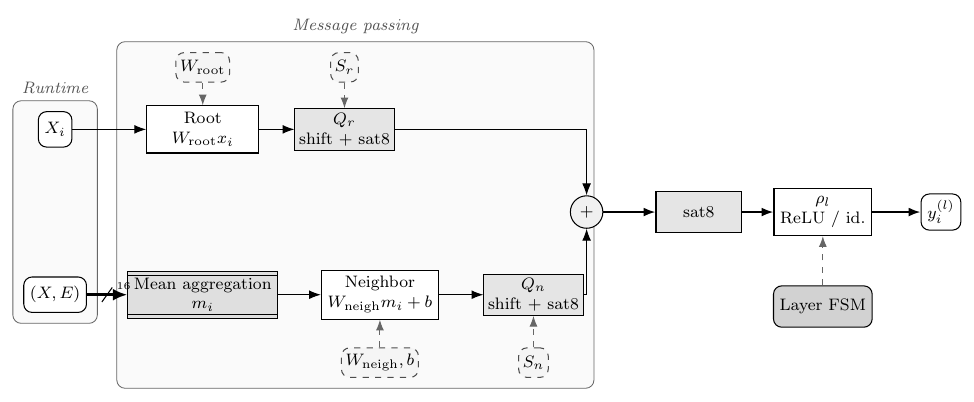
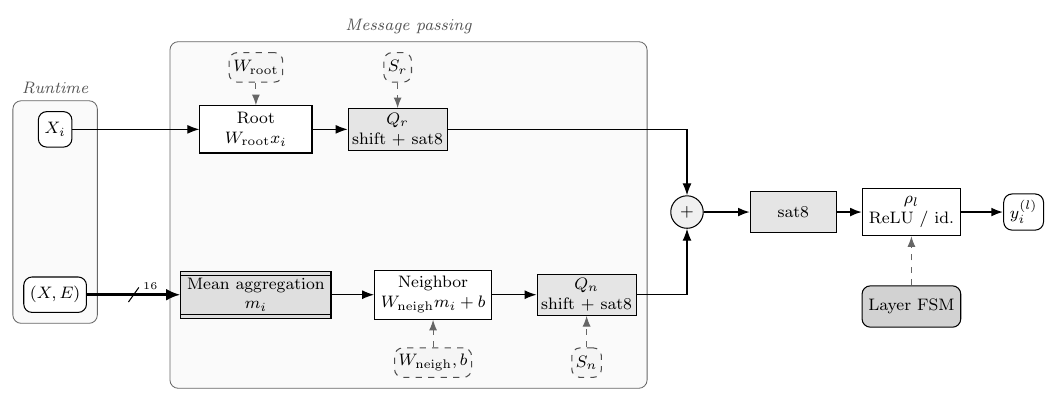
updated skill and imgs

diff --git a/examples/versal_soc.tex b/examples/versal_soc.tex
@@ -1,24 +1,40 @@
 % Versal-style SoC: host, PS, NoC, PL kernels and an AIE array.
+% Routing rules used here: wires between regions run in an empty channel
+% (x = 6.7) and under the AIE frame on their own levels (y = -1.7, -2.3);
+% every label sits on a segment that lies entirely in free space.
 \documentclass[tikz,border=6pt]{standalone}
 \usepackage[okabe]{hwfig}
 \begin{document}
 \begin{tikzpicture}[hw]
-  \node[host] (host) at (-3.2,0.3) {Host\\(x86)};
+  \node[host] (host) at (-3.4,0.3) {Host\\(x86)};
   \node[cpu] (ps) at (0,2.2) {PS\\Cortex-A72};
-  \node[extmem] (ddr) at (0,-1.9) {DDR4};
-  \node[xbar,minimum height=5.4cm] (noc) at (2,0.15) {\rotatebox{90}{NoC}};
-  \node[hlsbox] (k1) at (4.2,1.6) {mm2s\\(HLS)};
-  \node[hlsbox] (k2) at (4.2,-1.9) {s2mm\\(HLS)};
-  \node[bram] (buf) at (4.2,0.3) {BRAM buf};
-  \pic (arr) at (7.0,-0.45) {aiearray};
+  \node[extmem] (ddr) at (0,-2.0) {DDR4};
+  \node[xbar,minimum height=5.6cm] (noc) at (2,0.1) {\rotatebox{90}{NoC}};
+  \node[hlsbox] (k1) at (4.7,1.6) {mm2s\\(HLS)};
+  \node[hlsbox] (k2) at (4.7,-2.3) {s2mm\\(HLS)};
+  \node[bram] (buf) at (4.7,-0.35) {BRAM buf};
+  \pic (arr) at (8.3,0.1) {aiearray};
+
+  % routing levels
+  \def\chan{6.7}    % vertical channel between PL and AIE regions
+  \def\lvla{-1.7}   % mm2s -> AIE, under the AIE frame
+  \def\lvlb{-2.3}   % AIE -> s2mm, one level lower (= s2mm row)
+
   \draw[bus] (host) -- (host-|noc.west) node[lbl,midway,above=2pt]{PCIe Gen4};
   \draw[arr] (ps.east) -- (ps-|noc.west);
   \draw[arr,<->] (ddr.east) -- (ddr-|noc.west);
-  \draw[bus] (k1-|noc.east)--(k1) pic[pos=.35]{buswidth=128};
-  \draw[bus] (k2)--(k2-|noc.east);
-  \draw[arr] (k1.east) -- ++(0.9,0) node[lbl,pos=0.45,above]{AXI4-S} |- ($(arr-s1.south)+(0,-0.35)$) -- (arr-s1.south);
-  \draw[arr] (arr-s4.south) |- (k2.east);
-  \draw[darr] (buf)--(k1); \draw[darr] (buf)--(k2);
+  \draw[bus] (k1-|noc.east) -- (k1) pic[pos=.4]{buswidth=128};
+  \draw[bus] (k2) -- (k2-|noc.east);
+  % mm2s -> shim 1: right into the channel, down, along level a, up into the shim
+  \draw[arr] (k1.east) -- (\chan,1.6)
+       -- node[lbl,rotate=90,below]{AXI4-S} (\chan,\lvla)
+       -- (arr-s1.south|-{(0,\lvla)}) -- (arr-s1.south);
+  % shim 4 -> s2mm: down to level b, left to s2mm
+  \draw[arr] (arr-s4.south) -- (arr-s4.south|-{(0,\lvlb)})
+       -- node[lbl,above,pos=0.2]{AXI4-S} (k2.east);
+  \draw[darr] (buf) -- (k1);
+  \draw[darr] (buf) -- (k2);
+
   \begin{scope}[on background layer]
     \node[psregion,fit=(ps),label={[grouplabel]above:PS}] {};
     \node[plregion,fit=(k1)(k2)(buf),inner sep=8pt,label={[grouplabel]above:PL @ 300 MHz}] {};

diff --git a/examples/gnn_layer.tex b/examples/gnn_layer.tex
@@ -7,22 +7,22 @@
 \foreach \pal in {grey,okabe}{%
 \hwpalette{\pal}%
 \begin{tikzpicture}[hw]
-  \node[runtime] (xin) at (0,1.4) {$X_i$};
-  \node[runtime] (xein) at (0,-1.4) {$(X,E)$};
+  \node[runtime] (xin) at (-0.9,1.4) {$X_i$};
+  \node[runtime] (xein) at (-0.9,-1.4) {$(X,E)$};
   \node[hlsbox] (root) at (2.5,1.4) {Root\\$W_{\mathrm{root}}x_i$};
   \node[qbox] (qr) at (4.9,1.4) {$Q_r$\\shift + sat8};
   \node[mem] (agg) at (2.5,-1.4) {Mean aggregation\\$m_i$};
   \node[hlsbox] (neigh) at (5.5,-1.4) {Neighbor\\$W_{\mathrm{neigh}}m_i+b$};
   \node[qbox] (qn) at (8.1,-1.4) {$Q_n$\\shift + sat8};
-  \node[op] (sum) at (9.0,0) {$+$};
-  \node[qbox,minimum width=1.45cm] (qc) at (10.9,0) {sat8};
-  \node[hlsbox,minimum width=1.55cm] (relu) at (13.0,0) {$\rho_l$\\ReLU / id.};
-  \node[runtime] (yout) at (15.0,0) {$y_i^{(l)}$};
+  \node[op] (sum) at (9.8,0) {$+$};
+  \node[qbox,minimum width=1.45cm] (qc) at (11.6,0) {sat8};
+  \node[hlsbox,minimum width=1.55cm] (relu) at (13.6,0) {$\rho_l$\\ReLU / id.};
+  \node[runtime] (yout) at (15.5,0) {$y_i^{(l)}$};
   \node[ctime] (wroot) at (2.5,2.45) {$W_{\mathrm{root}}$};
   \node[ctime] (wneigh) at (5.5,-2.55) {$W_{\mathrm{neigh}},b$};
   \node[ctime] (sr) at (4.9,2.45) {$S_r$};
   \node[ctime] (sn) at (8.1,-2.55) {$S_n$};
-  \node[ctrl] (fsm) at (13.0,-1.6) {Layer FSM};
+  \node[ctrl] (fsm) at (13.6,-1.6) {Layer FSM};
   \draw[arr] (xin)--(root);
   \draw[bus] (xein)--(agg) pic[pos=.5]{buswidth=16};
   \draw[arr] (agg)--(neigh);

diff --git a/skill/SKILL.md b/skill/SKILL.md
@@ -34,6 +34,13 @@ Use this skill whenever the user wants a hardware figure in LaTeX/TikZ: dataflow
   `\begin{scope}[on background layer]\node[group,fit=(a)(b),label={[grouplabel]above:PL}] {};\end{scope}`
 - Clock domains: `clkdomain` (accent colour, dashed) or `clkdomain=<color>`; mark crossings with a `cdc` node.
 - Start every picture with `\begin{tikzpicture}[hw]` (sets font `\footnotesize`, line width, arrow tips).
+
+### Routing and labels (check these on every PNG)
+
+- **Gaps between regions.** Leave ≥ 0.6 cm between adjacent frames (Runtime | Message passing, PL | AIE). Nodes, merge `op`s and wires must never sit *on* a frame edge — if a node belongs to neither frame, give it room outside both.
+- **Routing channels.** Wires between regions run in an empty channel between the frames (define it: `\def\chan{6.7}`), then on their own horizontal *level* below/above the target frame (`\def\lvla{-1.7}`). Two wires never share a level; keep ≥ 0.3 cm between a wire and any parallel frame edge or block side, and ≥ 0.4 cm between parallel wires.
+- **Labels sit on free segments only.** Put `lbl`/`buswidth` on a segment that lies entirely in empty space — never where the wire crosses a frame border, and never within ~0.2 cm of a block. If the only free stretch is vertical, rotate the label to read bottom-to-top: `node[lbl,rotate=90,below]{AXI4-S}`. On short links use `pic[pos=.35..0.4]` so the number clears the destination block.
+- **Explicit segments for labelled elbows.** `-|`/`|-` can't take a label on a chosen leg; write the corners out: `(a.east) -- (\chan,ya) -- node[lbl,...]{X} (\chan,\lvla) -- (b.south|-{(0,\lvla)}) -- (b.south);`
 - Math in labels: `$W_{\mathrm{root}}$`; two-line labels with `\\` (all styles set `align=center`).
 
 ## Node styles (all palette-aware)
@@ -113,22 +120,22 @@ Keep fills ≤ 25% tint so black text stays readable, and check the greyscale co
 
 ```latex
 \begin{tikzpicture}[hw]
-  \node[runtime] (xin) at (0,1.4) {$X_i$};
-  \node[runtime] (xein) at (0,-1.4) {$(X,E)$};
+  \node[runtime] (xin) at (-0.9,1.4) {$X_i$};
+  \node[runtime] (xein) at (-0.9,-1.4) {$(X,E)$};
   \node[hlsbox] (root) at (2.5,1.4) {Root\\$W_{\mathrm{root}}x_i$};
   \node[qbox] (qr) at (4.9,1.4) {$Q_r$\\shift + sat8};
   \node[mem] (agg) at (2.5,-1.4) {Mean aggregation\\$m_i$};
   \node[hlsbox] (neigh) at (5.5,-1.4) {Neighbor\\$W_{\mathrm{neigh}}m_i+b$};
   \node[qbox] (qn) at (8.1,-1.4) {$Q_n$\\shift + sat8};
-  \node[op] (sum) at (9.0,0) {$+$};
-  \node[qbox,minimum width=1.45cm] (qc) at (10.9,0) {sat8};
-  \node[hlsbox,minimum width=1.55cm] (relu) at (13.0,0) {$\rho_l$\\ReLU / id.};
-  \node[runtime] (yout) at (15.0,0) {$y_i^{(l)}$};
+  \node[op] (sum) at (9.8,0) {$+$};
+  \node[qbox,minimum width=1.45cm] (qc) at (11.6,0) {sat8};
+  \node[hlsbox,minimum width=1.55cm] (relu) at (13.6,0) {$\rho_l$\\ReLU / id.};
+  \node[runtime] (yout) at (15.5,0) {$y_i^{(l)}$};
   \node[ctime] (wroot) at (2.5,2.45) {$W_{\mathrm{root}}$};
   \node[ctime] (wneigh) at (5.5,-2.55) {$W_{\mathrm{neigh}},b$};
   \node[ctime] (sr) at (4.9,2.45) {$S_r$};
   \node[ctime] (sn) at (8.1,-2.55) {$S_n$};
-  \node[ctrl] (fsm) at (13.0,-1.6) {Layer FSM};
+  \node[ctrl] (fsm) at (13.6,-1.6) {Layer FSM};
   \draw[arr] (xin)--(root);
   \draw[bus] (xein)--(agg) pic[pos=.5]{buswidth=16};
   \draw[arr] (agg)--(neigh);
@@ -155,30 +162,43 @@ Keep fills ≤ 25% tint so black text stays readable, and check the greyscale co
 
 ```latex
 \begin{tikzpicture}[hw]
- \node[host] (host) at (-3.2,0.3) {Host\\(x86)};
- \node[cpu] (ps) at (0,2.2) {PS\\Cortex-A72};
- \node[extmem] (ddr) at (0,-1.9) {DDR4};
- \node[xbar,minimum height=5.4cm] (noc) at (2,0.15) {\rotatebox{90}{NoC}};
- \node[hlsbox] (k1) at (4.2,1.6) {mm2s\\(HLS)};
- \node[hlsbox] (k2) at (4.2,-1.9) {s2mm\\(HLS)};
- \node[bram] (buf) at (4.2,0.3) {BRAM buf};
- \pic (arr) at (7.0,-0.6) {aiearray};
- \draw[bus] (host) -- (host-|noc.west) node[lbl,midway,above]{PCIe Gen4};
- \draw[arr] (ps.east) -- (ps-|noc.west);
- \draw[arr,<->] (ddr.east) -- (ddr-|noc.west);
- \draw[bus] (k1-|noc.east)--(k1) pic[pos=.5]{buswidth=128};
- \draw[bus] (k2)--(k2-|noc.east);
- \draw[arr] (k1.east) -- ++(0.9,0) node[lbl,pos=0.55,above]{AXI4-S} |- ($(arr-s1.south)+(0,-0.35)$) -- (arr-s1.south);
- \draw[arr] (arr-s4.south) |- (k2.east);
- \draw[darr] (buf)--(k1); \draw[darr] (buf)--(k2);
- \begin{scope}[on background layer]
-   \node[psregion,fit=(ps),label={[grouplabel]above:PS}] {};
-   \node[plregion,fit=(k1)(k2)(buf),inner sep=8pt,label={[grouplabel]above:PL @ 300 MHz}] {};
-   \node[clkdomain,fit=(arr-box),inner sep=3pt,label={[grouplabel,text=hwaccent]above:AIE array $3\times4$ @ 1.25 GHz}] {};
- \end{scope}
+  \node[host] (host) at (-3.4,0.3) {Host\\(x86)};
+  \node[cpu] (ps) at (0,2.2) {PS\\Cortex-A72};
+  \node[extmem] (ddr) at (0,-2.0) {DDR4};
+  \node[xbar,minimum height=5.6cm] (noc) at (2,0.1) {\rotatebox{90}{NoC}};
+  \node[hlsbox] (k1) at (4.7,1.6) {mm2s\\(HLS)};
+  \node[hlsbox] (k2) at (4.7,-2.3) {s2mm\\(HLS)};
+  \node[bram] (buf) at (4.7,-0.35) {BRAM buf};
+  \pic (arr) at (8.3,0.1) {aiearray};
+
+  % routing levels
+  \def\chan{6.7}    % vertical channel between PL and AIE regions
+  \def\lvla{-1.7}   % mm2s -> AIE, under the AIE frame
+  \def\lvlb{-2.3}   % AIE -> s2mm, one level lower (= s2mm row)
+
+  \draw[bus] (host) -- (host-|noc.west) node[lbl,midway,above=2pt]{PCIe Gen4};
+  \draw[arr] (ps.east) -- (ps-|noc.west);
+  \draw[arr,<->] (ddr.east) -- (ddr-|noc.west);
+  \draw[bus] (k1-|noc.east) -- (k1) pic[pos=.4]{buswidth=128};
+  \draw[bus] (k2) -- (k2-|noc.east);
+  % mm2s -> shim 1: right into the channel, down, along level a, up into the shim
+  \draw[arr] (k1.east) -- (\chan,1.6)
+       -- node[lbl,rotate=90,below]{AXI4-S} (\chan,\lvla)
+       -- (arr-s1.south|-{(0,\lvla)}) -- (arr-s1.south);
+  % shim 4 -> s2mm: down to level b, left to s2mm
+  \draw[arr] (arr-s4.south) -- (arr-s4.south|-{(0,\lvlb)})
+       -- node[lbl,above,pos=0.2]{AXI4-S} (k2.east);
+  \draw[darr] (buf) -- (k1);
+  \draw[darr] (buf) -- (k2);
+
+  \begin{scope}[on background layer]
+    \node[psregion,fit=(ps),label={[grouplabel]above:PS}] {};
+    \node[plregion,fit=(k1)(k2)(buf),inner sep=8pt,label={[grouplabel]above:PL @ 300 MHz}] {};
+    \node[clkdomain,fit=(arr-box),inner sep=3pt,label={[grouplabel,text=hwaccent]above:AIE array $3\times4$ @ 1.25 GHz}] {};
+  \end{scope}
 \end{tikzpicture}
 ```
 
 ## Package source
 
-`hwfig.sty` (v1.1, by Pelayo Leguina, <pelayo.leguina.lopez@cern.ch>, LPPL 1.3c) ships next to this file. Changelog, gallery and examples live in the public `hwfig` repository; this skill is maintained there under `claude-skill/` and packaged with `claude-skill/package.sh`.
+`hwfig.sty` (v1.1, by Pelayo Leguina, <pelayo.leguina.lopez@cern.ch>, LPPL 1.3c) ships next to this file. Changelog, gallery and examples live in the public `hwfig` repository; this skill is maintained there under `skill/` and packaged with `skill/package.sh`.

diff --git a/README.md b/README.md
@@ -134,6 +134,13 @@ These keep figures across a paper looking like one family:
   `\begin{scope}[on background layer]\node[group,fit=(a)(b),label={[grouplabel]above:PL}]{};\end{scope}`
 - Place nodes with explicit coordinates; for dense dataflow it beats
   `positioning`. Keep figures ≤ 16 cm wide for two-column papers.
+- Leave ≥ 0.6 cm between adjacent frames; nothing sits *on* a frame edge.
+- Route wires between regions through an empty channel, each on its own
+  level, ≥ 0.3 cm from parallel frame edges and block sides
+  (see `examples/versal_soc.tex`).
+- Put wire labels only on segments in free space — never where a wire
+  crosses a frame border. On vertical runs rotate them:
+  `node[lbl,rotate=90,below]{AXI4-S}`.
 
 ![Two requantisation branches](gallery/requant_branches-1.png)
 
@@ -146,12 +153,12 @@ and MiKTeX without installing the package).
 
 ## Claude skill
 
-`claude-skill/SKILL.md` is a [Claude](https://claude.ai) skill that teaches
+`skill/SKILL.md` is a [Claude](https://claude.ai) skill that teaches
 Claude to draw figures with this package: the visual grammar above, the style
 and pic reference, common pitfalls, and a compile → inspect → fix loop.
 
 ```sh
-sh claude-skill/package.sh    # -> claude-skill/tikz-hardware-figures.zip
+sh skill/package.sh    # -> skill/tikz-hardware-figures.zip
 ```
 
 Upload the zip in claude.ai under *Settings → Capabilities → Skills*. The zip
